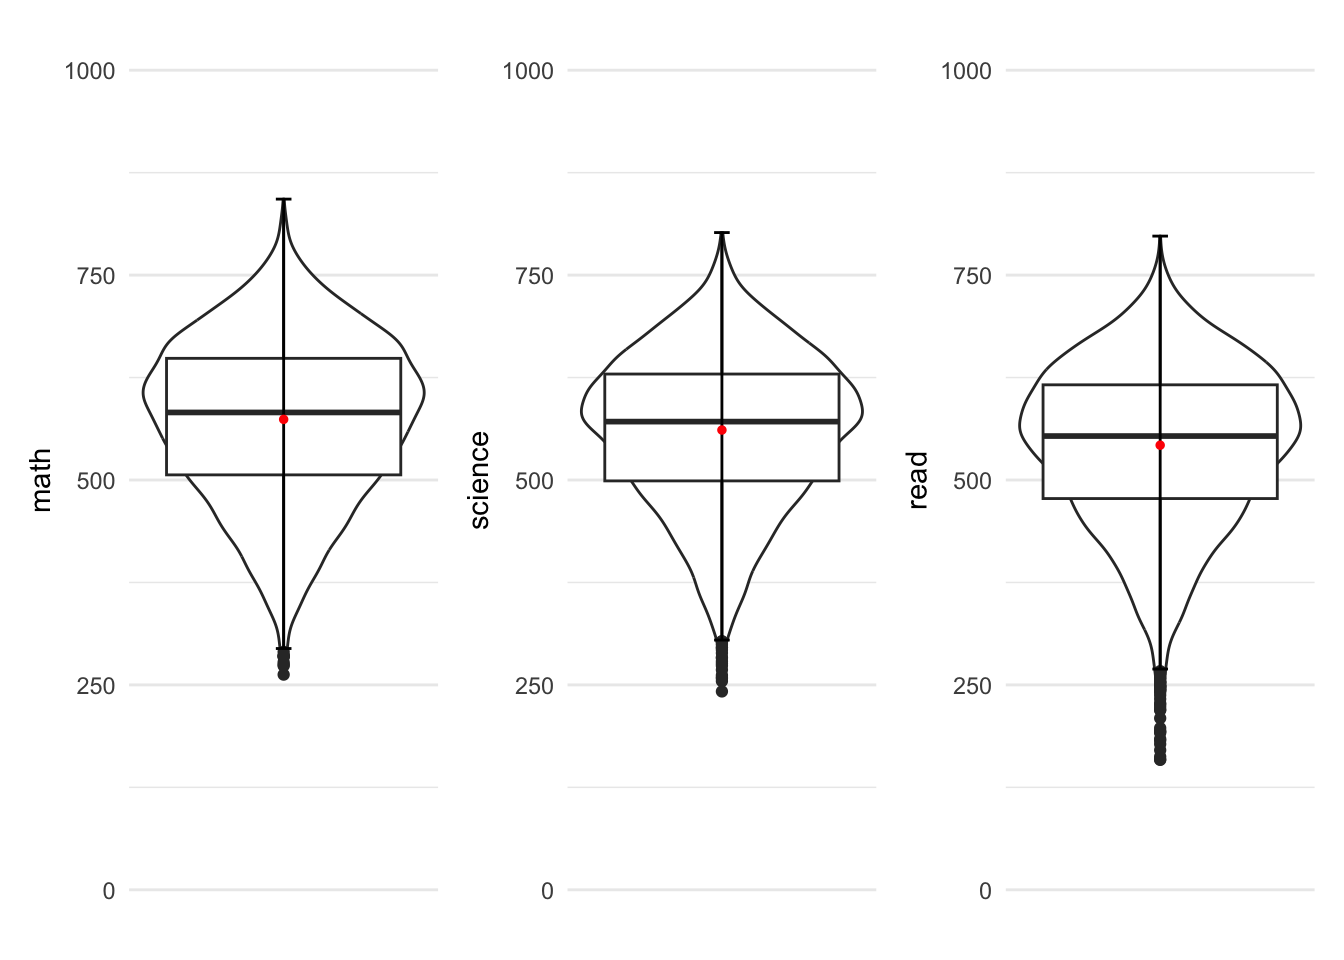
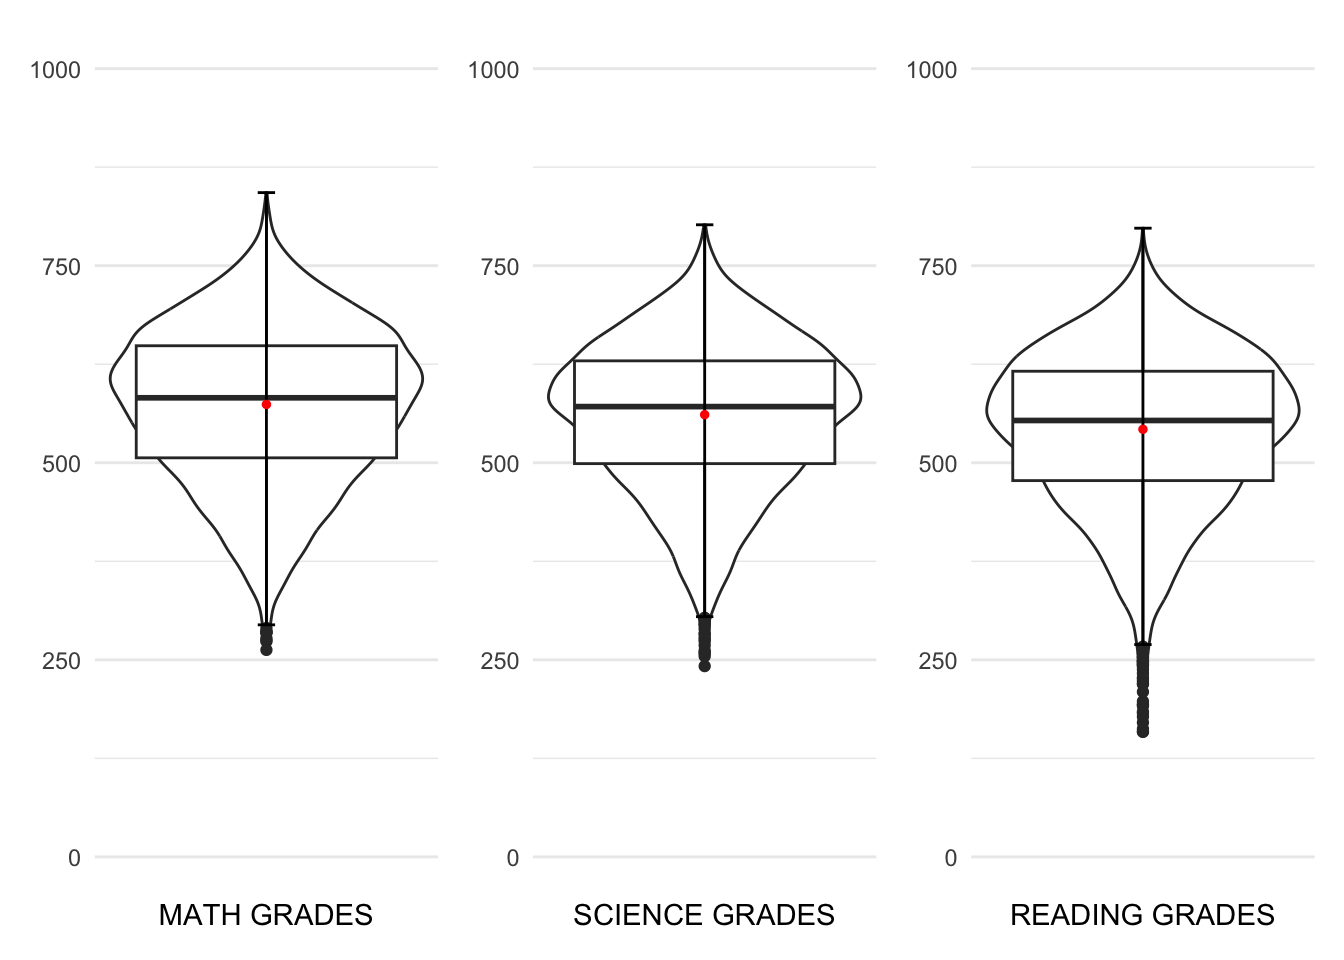
Take Home 1 Exercise Minor Changes

diff --git a/_site/Take-home_Ex/Take-home_Ex1/Take-home_Ex1.html b/_site/Take-home_Ex/Take-home_Ex1/Take-home_Ex1.html
@@ -359,8 +359,8 @@ $ socio_economic &lt;dbl&gt; 0.1836, 0.8261, -1.0357, -0.9606, 0.0856, 0.1268, -
 <span id="cb11-8"><a href="#cb11-8" aria-hidden="true" tabindex="-1"></a>               <span class="at">fun.y =</span> <span class="st">"mean"</span>,         </span>
 <span id="cb11-9"><a href="#cb11-9" aria-hidden="true" tabindex="-1"></a>               <span class="at">colour =</span> <span class="st">"red"</span>, </span>
 <span id="cb11-10"><a href="#cb11-10" aria-hidden="true" tabindex="-1"></a>               <span class="at">size =</span> <span class="dv">1</span>) <span class="sc">+</span></span>
-<span id="cb11-11"><a href="#cb11-11" aria-hidden="true" tabindex="-1"></a>  <span class="fu">ylim</span>(<span class="fu">c</span>(<span class="dv">0</span>,<span class="dv">1000</span>))<span class="sc">+</span></span>
-<span id="cb11-12"><a href="#cb11-12" aria-hidden="true" tabindex="-1"></a>  <span class="fu">scale_x_continuous</span>(<span class="cn">NULL</span>, <span class="at">breaks =</span> <span class="cn">NULL</span>) <span class="sc">+</span></span>
+<span id="cb11-11"><a href="#cb11-11" aria-hidden="true" tabindex="-1"></a>  <span class="fu">scale_y_continuous</span>(<span class="cn">NULL</span>, <span class="at">limits =</span> <span class="fu">c</span>(<span class="dv">0</span>,<span class="dv">1000</span>)) <span class="sc">+</span></span>
+<span id="cb11-12"><a href="#cb11-12" aria-hidden="true" tabindex="-1"></a>  <span class="fu">scale_x_continuous</span>(<span class="st">"MATH GRADES"</span>, <span class="at">breaks =</span> <span class="cn">NULL</span>) <span class="sc">+</span></span>
 <span id="cb11-13"><a href="#cb11-13" aria-hidden="true" tabindex="-1"></a>  <span class="fu">theme_minimal</span>()</span>
 <span id="cb11-14"><a href="#cb11-14" aria-hidden="true" tabindex="-1"></a>p2 <span class="ot">&lt;-</span> <span class="fu">ggplot</span>(<span class="at">data =</span> stu_qqq_grade,</span>
 <span id="cb11-15"><a href="#cb11-15" aria-hidden="true" tabindex="-1"></a>       <span class="fu">aes</span>(<span class="at">y =</span> science)) <span class="sc">+</span></span>
@@ -372,8 +372,8 @@ $ socio_economic &lt;dbl&gt; 0.1836, 0.8261, -1.0357, -0.9606, 0.0856, 0.1268, -
 <span id="cb11-21"><a href="#cb11-21" aria-hidden="true" tabindex="-1"></a>               <span class="at">fun.y =</span> <span class="st">"mean"</span>,         </span>
 <span id="cb11-22"><a href="#cb11-22" aria-hidden="true" tabindex="-1"></a>               <span class="at">colour =</span> <span class="st">"red"</span>, </span>
 <span id="cb11-23"><a href="#cb11-23" aria-hidden="true" tabindex="-1"></a>               <span class="at">size =</span> <span class="dv">1</span>) <span class="sc">+</span></span>
-<span id="cb11-24"><a href="#cb11-24" aria-hidden="true" tabindex="-1"></a>  <span class="fu">ylim</span>(<span class="fu">c</span>(<span class="dv">0</span>,<span class="dv">1000</span>))<span class="sc">+</span></span>
-<span id="cb11-25"><a href="#cb11-25" aria-hidden="true" tabindex="-1"></a>  <span class="fu">scale_x_continuous</span>(<span class="cn">NULL</span>, <span class="at">breaks =</span> <span class="cn">NULL</span>) <span class="sc">+</span></span>
+<span id="cb11-24"><a href="#cb11-24" aria-hidden="true" tabindex="-1"></a>  <span class="fu">scale_y_continuous</span>(<span class="cn">NULL</span>, <span class="at">limits =</span> <span class="fu">c</span>(<span class="dv">0</span>,<span class="dv">1000</span>)) <span class="sc">+</span></span>
+<span id="cb11-25"><a href="#cb11-25" aria-hidden="true" tabindex="-1"></a>  <span class="fu">scale_x_continuous</span>(<span class="st">"SCIENCE GRADES"</span>, <span class="at">breaks =</span> <span class="cn">NULL</span>) <span class="sc">+</span></span>
 <span id="cb11-26"><a href="#cb11-26" aria-hidden="true" tabindex="-1"></a>  <span class="fu">theme_minimal</span>()</span>
 <span id="cb11-27"><a href="#cb11-27" aria-hidden="true" tabindex="-1"></a>p3 <span class="ot">&lt;-</span> <span class="fu">ggplot</span>(<span class="at">data =</span> stu_qqq_grade,</span>
 <span id="cb11-28"><a href="#cb11-28" aria-hidden="true" tabindex="-1"></a>       <span class="fu">aes</span>(<span class="at">y =</span> read)) <span class="sc">+</span></span>
@@ -385,8 +385,8 @@ $ socio_economic &lt;dbl&gt; 0.1836, 0.8261, -1.0357, -0.9606, 0.0856, 0.1268, -
 <span id="cb11-34"><a href="#cb11-34" aria-hidden="true" tabindex="-1"></a>               <span class="at">fun.y =</span> <span class="st">"mean"</span>,         </span>
 <span id="cb11-35"><a href="#cb11-35" aria-hidden="true" tabindex="-1"></a>               <span class="at">colour =</span> <span class="st">"red"</span>, </span>
 <span id="cb11-36"><a href="#cb11-36" aria-hidden="true" tabindex="-1"></a>               <span class="at">size =</span> <span class="dv">1</span>) <span class="sc">+</span></span>
-<span id="cb11-37"><a href="#cb11-37" aria-hidden="true" tabindex="-1"></a>  <span class="fu">ylim</span>(<span class="fu">c</span>(<span class="dv">0</span>,<span class="dv">1000</span>))<span class="sc">+</span></span>
-<span id="cb11-38"><a href="#cb11-38" aria-hidden="true" tabindex="-1"></a>  <span class="fu">scale_x_continuous</span>(<span class="cn">NULL</span>, <span class="at">breaks =</span> <span class="cn">NULL</span>) <span class="sc">+</span></span>
+<span id="cb11-37"><a href="#cb11-37" aria-hidden="true" tabindex="-1"></a>  <span class="fu">scale_y_continuous</span>(<span class="cn">NULL</span>, <span class="at">limits =</span> <span class="fu">c</span>(<span class="dv">0</span>,<span class="dv">1000</span>)) <span class="sc">+</span></span>
+<span id="cb11-38"><a href="#cb11-38" aria-hidden="true" tabindex="-1"></a>  <span class="fu">scale_x_continuous</span>(<span class="st">"READING GRADES"</span>, <span class="at">breaks =</span> <span class="cn">NULL</span>) <span class="sc">+</span></span>
 <span id="cb11-39"><a href="#cb11-39" aria-hidden="true" tabindex="-1"></a>  <span class="fu">theme_minimal</span>()</span>
 <span id="cb11-40"><a href="#cb11-40" aria-hidden="true" tabindex="-1"></a></span>
 <span id="cb11-41"><a href="#cb11-41" aria-hidden="true" tabindex="-1"></a>p1<span class="sc">|</span>p2<span class="sc">|</span>p3</span></code><button title="Copy to Clipboard" class="code-copy-button"><i class="bi"></i></button></pre></div>
@@ -610,8 +610,8 @@ $ socio_economic &lt;dbl&gt; 0.1836, 0.8261, -1.0357, -0.9606, 0.0856, 0.1268, -
 <span id="cb23-7"><a href="#cb23-7" aria-hidden="true" tabindex="-1"></a>               <span class="at">fun.y =</span> <span class="st">"mean"</span>,         </span>
 <span id="cb23-8"><a href="#cb23-8" aria-hidden="true" tabindex="-1"></a>               <span class="at">colour =</span> <span class="st">"red"</span>, </span>
 <span id="cb23-9"><a href="#cb23-9" aria-hidden="true" tabindex="-1"></a>               <span class="at">size =</span> <span class="dv">1</span>) <span class="sc">+</span></span>
-<span id="cb23-10"><a href="#cb23-10" aria-hidden="true" tabindex="-1"></a>  <span class="fu">ylim</span>(<span class="fu">c</span>(<span class="dv">0</span>,<span class="dv">220</span>)) <span class="sc">+</span></span>
-<span id="cb23-11"><a href="#cb23-11" aria-hidden="true" tabindex="-1"></a>  <span class="fu">scale_x_continuous</span>(<span class="cn">NULL</span>, <span class="at">breaks =</span> <span class="cn">NULL</span>) <span class="sc">+</span></span>
+<span id="cb23-10"><a href="#cb23-10" aria-hidden="true" tabindex="-1"></a>  <span class="fu">scale_y_continuous</span>(<span class="cn">NULL</span>, <span class="at">limits =</span> <span class="fu">c</span>(<span class="dv">0</span>,<span class="dv">220</span>)) <span class="sc">+</span></span>
+<span id="cb23-11"><a href="#cb23-11" aria-hidden="true" tabindex="-1"></a>  <span class="fu">scale_x_continuous</span>(<span class="st">"math avg grade diff"</span>, <span class="at">breaks =</span> <span class="cn">NULL</span>) <span class="sc">+</span></span>
 <span id="cb23-12"><a href="#cb23-12" aria-hidden="true" tabindex="-1"></a>  <span class="fu">theme_minimal</span>()</span>
 <span id="cb23-13"><a href="#cb23-13" aria-hidden="true" tabindex="-1"></a></span>
 <span id="cb23-14"><a href="#cb23-14" aria-hidden="true" tabindex="-1"></a>p2 <span class="ot">&lt;-</span> <span class="fu">ggplot</span>(<span class="at">data =</span> stu_qqq_sch,</span>
@@ -623,8 +623,8 @@ $ socio_economic &lt;dbl&gt; 0.1836, 0.8261, -1.0357, -0.9606, 0.0856, 0.1268, -
 <span id="cb23-20"><a href="#cb23-20" aria-hidden="true" tabindex="-1"></a>               <span class="at">fun.y =</span><span class="st">"mean"</span>,         </span>
 <span id="cb23-21"><a href="#cb23-21" aria-hidden="true" tabindex="-1"></a>               <span class="at">colour =</span><span class="st">"red"</span>, </span>
 <span id="cb23-22"><a href="#cb23-22" aria-hidden="true" tabindex="-1"></a>               <span class="at">size=</span><span class="dv">1</span>) <span class="sc">+</span></span>
-<span id="cb23-23"><a href="#cb23-23" aria-hidden="true" tabindex="-1"></a>  <span class="fu">ylim</span>(<span class="fu">c</span>(<span class="dv">0</span>,<span class="dv">220</span>)) <span class="sc">+</span></span>
-<span id="cb23-24"><a href="#cb23-24" aria-hidden="true" tabindex="-1"></a>  <span class="fu">scale_x_continuous</span>(<span class="cn">NULL</span>, <span class="at">breaks =</span> <span class="cn">NULL</span>) <span class="sc">+</span></span>
+<span id="cb23-23"><a href="#cb23-23" aria-hidden="true" tabindex="-1"></a>  <span class="fu">scale_y_continuous</span>(<span class="cn">NULL</span>, <span class="at">limits =</span> <span class="fu">c</span>(<span class="dv">0</span>,<span class="dv">220</span>)) <span class="sc">+</span></span>
+<span id="cb23-24"><a href="#cb23-24" aria-hidden="true" tabindex="-1"></a>  <span class="fu">scale_x_continuous</span>(<span class="st">"science avg grade diff"</span>, <span class="at">breaks =</span> <span class="cn">NULL</span>) <span class="sc">+</span></span>
 <span id="cb23-25"><a href="#cb23-25" aria-hidden="true" tabindex="-1"></a>  <span class="fu">theme_minimal</span>()</span>
 <span id="cb23-26"><a href="#cb23-26" aria-hidden="true" tabindex="-1"></a></span>
 <span id="cb23-27"><a href="#cb23-27" aria-hidden="true" tabindex="-1"></a>p3 <span class="ot">&lt;-</span> <span class="fu">ggplot</span>(<span class="at">data =</span> stu_qqq_sch,</span>
@@ -636,8 +636,8 @@ $ socio_economic &lt;dbl&gt; 0.1836, 0.8261, -1.0357, -0.9606, 0.0856, 0.1268, -
 <span id="cb23-33"><a href="#cb23-33" aria-hidden="true" tabindex="-1"></a>               <span class="at">fun.y =</span><span class="st">"mean"</span>,         </span>
 <span id="cb23-34"><a href="#cb23-34" aria-hidden="true" tabindex="-1"></a>               <span class="at">colour =</span><span class="st">"red"</span>, </span>
 <span id="cb23-35"><a href="#cb23-35" aria-hidden="true" tabindex="-1"></a>               <span class="at">size=</span><span class="dv">1</span>) <span class="sc">+</span></span>
-<span id="cb23-36"><a href="#cb23-36" aria-hidden="true" tabindex="-1"></a>  <span class="fu">ylim</span>(<span class="fu">c</span>(<span class="dv">0</span>,<span class="dv">220</span>)) <span class="sc">+</span></span>
-<span id="cb23-37"><a href="#cb23-37" aria-hidden="true" tabindex="-1"></a>  <span class="fu">scale_x_continuous</span>(<span class="cn">NULL</span>, <span class="at">breaks =</span> <span class="cn">NULL</span>) <span class="sc">+</span></span>
+<span id="cb23-36"><a href="#cb23-36" aria-hidden="true" tabindex="-1"></a>  <span class="fu">scale_y_continuous</span>(<span class="cn">NULL</span>, <span class="at">limits =</span> <span class="fu">c</span>(<span class="dv">0</span>,<span class="dv">220</span>)) <span class="sc">+</span></span>
+<span id="cb23-37"><a href="#cb23-37" aria-hidden="true" tabindex="-1"></a>  <span class="fu">scale_x_continuous</span>(<span class="st">"reading avg grade diff"</span>, <span class="at">breaks =</span> <span class="cn">NULL</span>) <span class="sc">+</span></span>
 <span id="cb23-38"><a href="#cb23-38" aria-hidden="true" tabindex="-1"></a>  <span class="fu">theme_minimal</span>()</span>
 <span id="cb23-39"><a href="#cb23-39" aria-hidden="true" tabindex="-1"></a></span>
 <span id="cb23-40"><a href="#cb23-40" aria-hidden="true" tabindex="-1"></a>p1<span class="sc">|</span>p2<span class="sc">|</span>p3</span></code><button title="Copy to Clipboard" class="code-copy-button"><i class="bi"></i></button></pre></div>
@@ -677,7 +677,9 @@ $ socio_economic &lt;dbl&gt; 0.1836, 0.8261, -1.0357, -0.9606, 0.0856, 0.1268, -
 <span id="cb27-6"><a href="#cb27-6" aria-hidden="true" tabindex="-1"></a>               <span class="at">fun =</span> <span class="st">'mean'</span>,</span>
 <span id="cb27-7"><a href="#cb27-7" aria-hidden="true" tabindex="-1"></a>               <span class="fu">aes</span>(<span class="at">x =</span> <span class="dv">0</span>),</span>
 <span id="cb27-8"><a href="#cb27-8" aria-hidden="true" tabindex="-1"></a>               <span class="at">color =</span> <span class="st">'red'</span>) <span class="sc">+</span></span>
-<span id="cb27-9"><a href="#cb27-9" aria-hidden="true" tabindex="-1"></a>  <span class="fu">theme_minimal</span>()</span></code><button title="Copy to Clipboard" class="code-copy-button"><i class="bi"></i></button></pre></div>
+<span id="cb27-9"><a href="#cb27-9" aria-hidden="true" tabindex="-1"></a>  <span class="fu">scale_y_continuous</span>(<span class="cn">NULL</span>) <span class="sc">+</span></span>
+<span id="cb27-10"><a href="#cb27-10" aria-hidden="true" tabindex="-1"></a>  <span class="fu">scale_x_continuous</span>(<span class="st">'Social Economic Standing'</span>, <span class="at">breaks =</span> <span class="cn">NULL</span>) <span class="sc">+</span></span>
+<span id="cb27-11"><a href="#cb27-11" aria-hidden="true" tabindex="-1"></a>  <span class="fu">theme_minimal</span>()</span></code><button title="Copy to Clipboard" class="code-copy-button"><i class="bi"></i></button></pre></div>
 </details>
 <div class="cell-output-display">
 <p><img src="Take-home_Ex1_files/figure-html/unnamed-chunk-21-1.png" class="img-fluid" width="672"></p>
